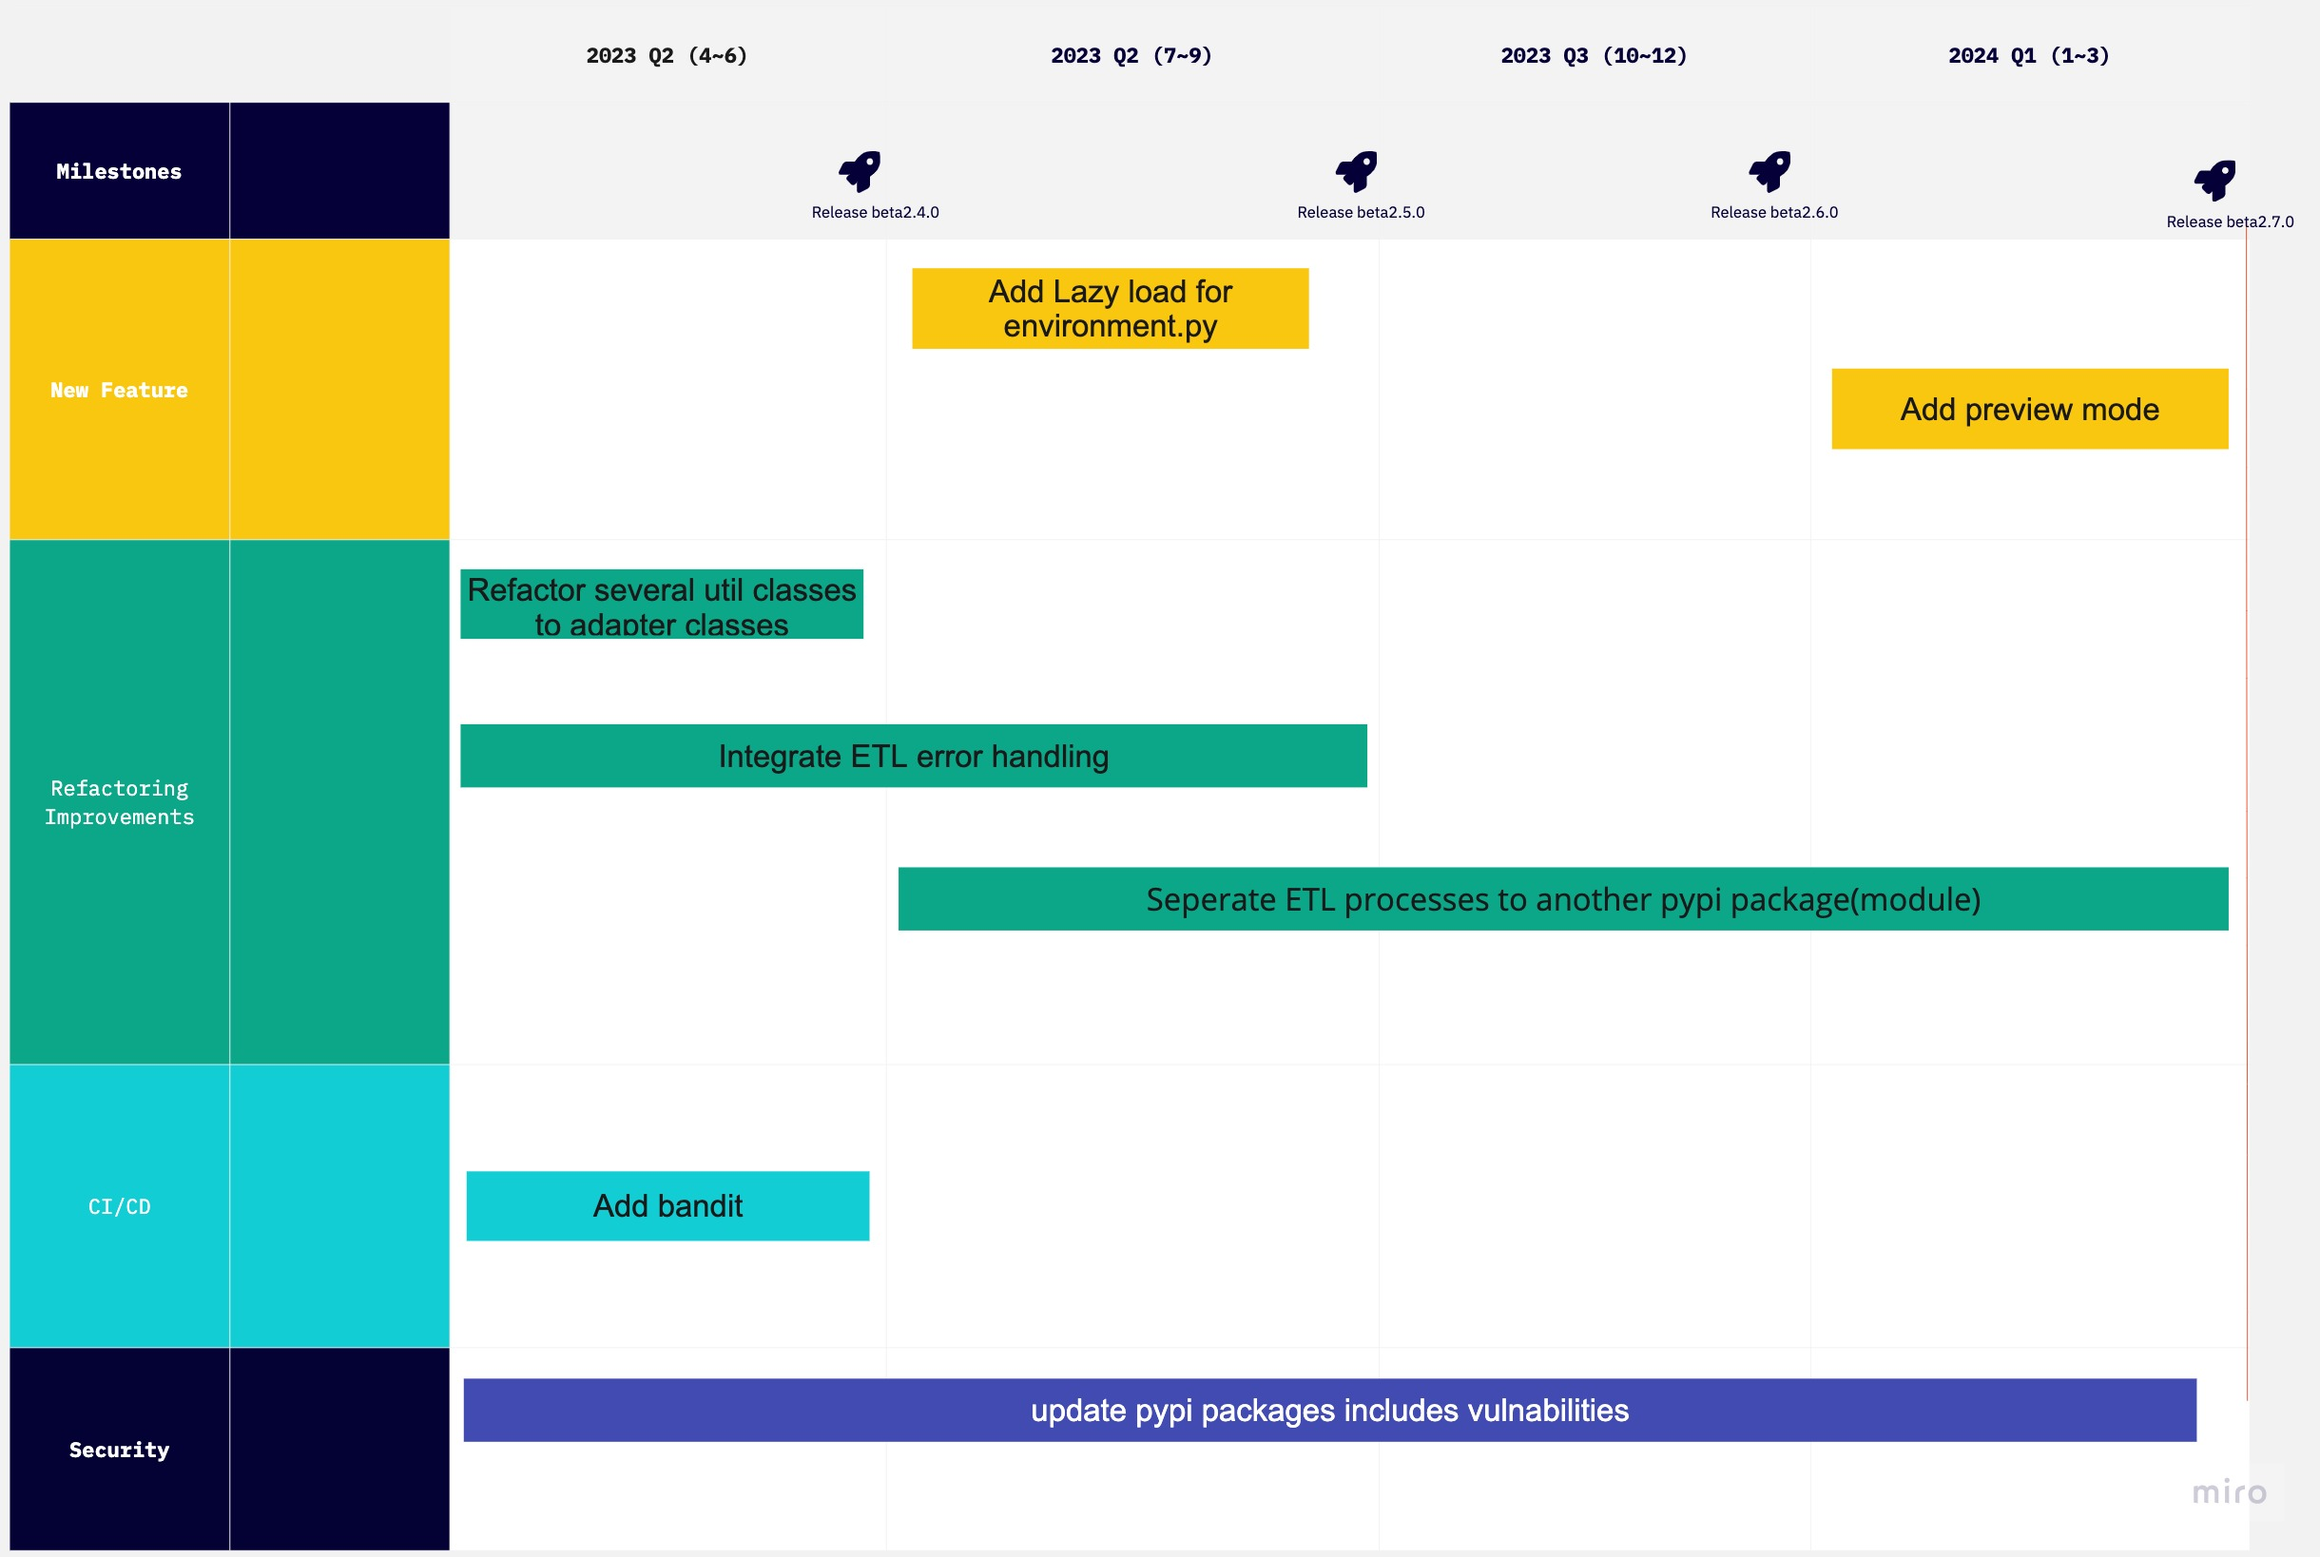
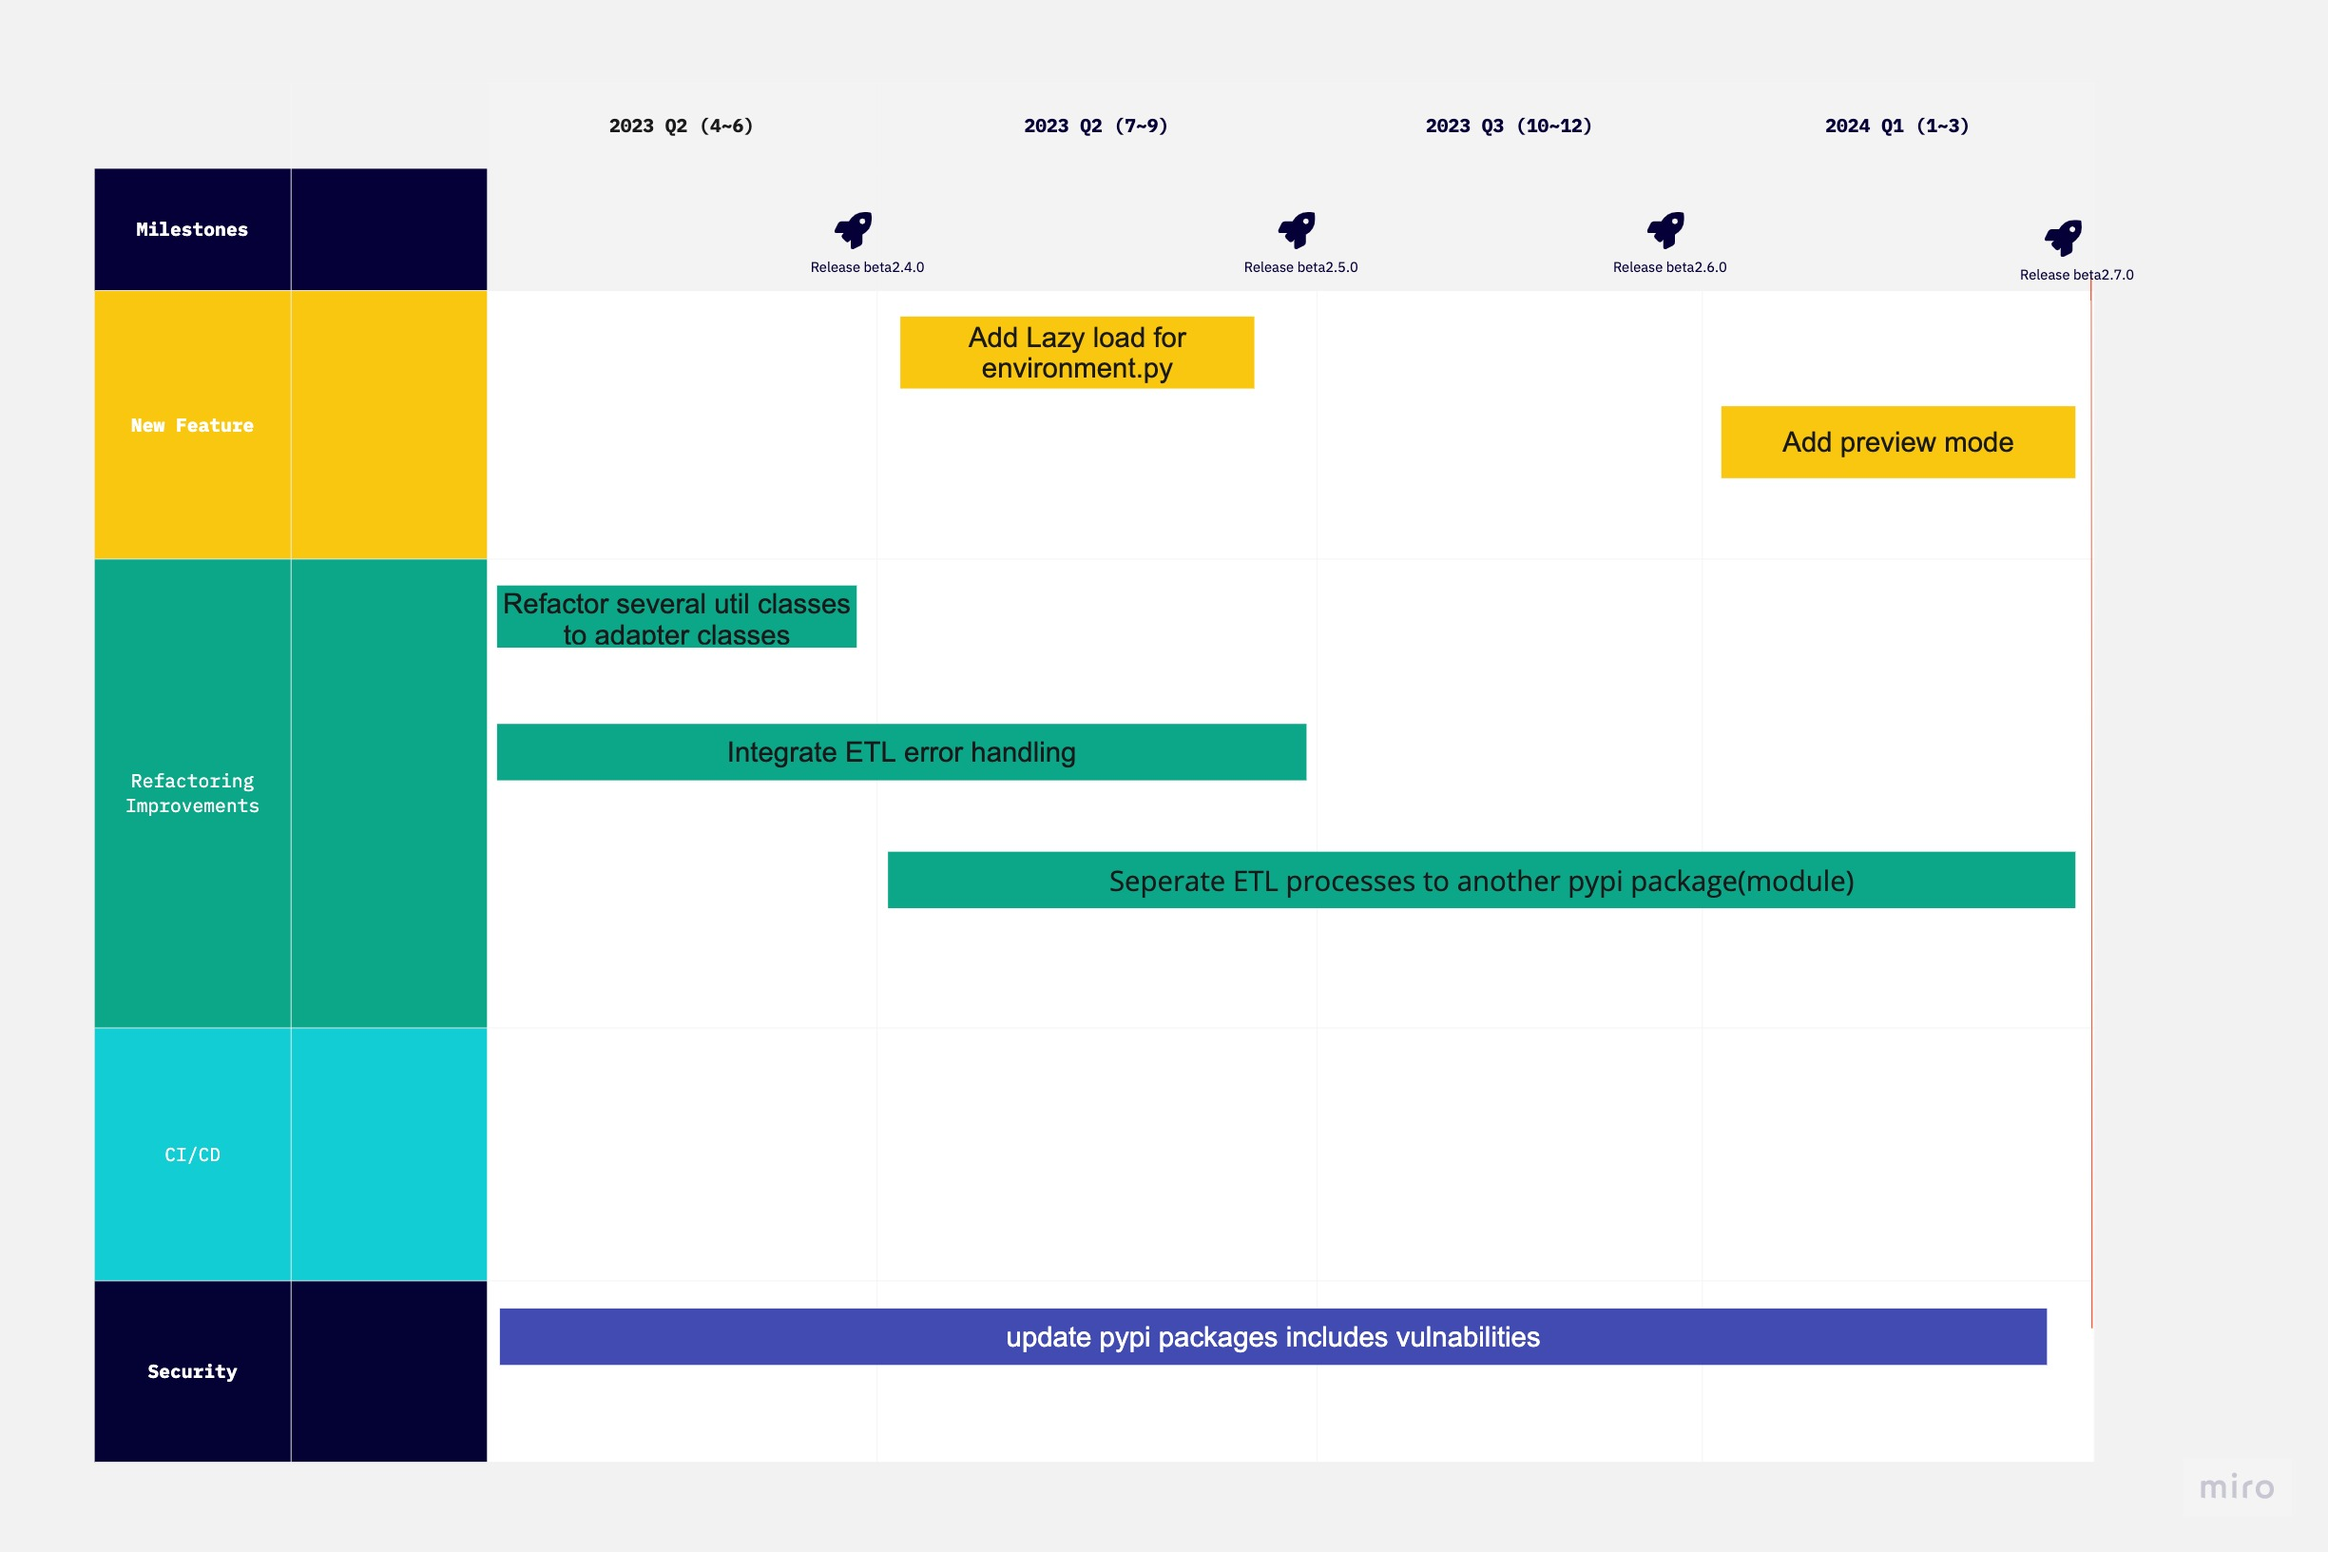
[〆5/12]move csv util to csv adapter (#414)
* move csv util to csv adapter

* fix import destination

* add a 202304 roadmap

* fix import

* isort

* fix import

---------

diff --git a/cliboa/scenario/transform/csv.py b/cliboa/scenario/transform/csv.py
@@ -21,11 +21,11 @@ from datetime import datetime
 import jsonlines
 import pandas
 
+from cliboa.adapter.csv import Csv
 from cliboa.adapter.file import File
 from cliboa.adapter.sqlite import SqliteAdapter
 from cliboa.core.validator import EssentialParameters
 from cliboa.scenario.transform.file import FileBaseTransform
-from cliboa.util.csv import Csv
 from cliboa.util.exception import FileNotFound, InvalidCount, InvalidParameter
 from cliboa.util.string import StringUtil
 

diff --git a/cliboa/scenario/load/sqlite.py b/cliboa/scenario/load/sqlite.py
@@ -11,9 +11,9 @@
 # The above copyright notice and this permission notice shall be included in
 # all copies or substantial portions of the Software.
 #
+from cliboa.adapter.csv import Csv
 from cliboa.scenario.sqlite import SqliteTransaction
 from cliboa.scenario.validator import EssentialParameters
-from cliboa.util.csv import Csv
 from cliboa.util.exception import CliboaException, FileNotFound
 
 

diff --git a/cliboa/scenario/transform/json.py b/cliboa/scenario/transform/json.py
@@ -17,9 +17,9 @@ from abc import abstractmethod
 import jsonlines
 import pandas
 
+from cliboa.adapter.csv import Csv
 from cliboa.core.validator import EssentialParameters
 from cliboa.scenario.transform.file import FileBaseTransform
-from cliboa.util.csv import Csv
 from cliboa.util.exception import InvalidParameter
 
 

diff --git a/cliboa/test/adapter/test_csv.py b/cliboa/test/adapter/test_csv.py
@@ -15,8 +15,8 @@ import csv
 import os
 import shutil
 
+from cliboa.adapter.csv import Csv
 from cliboa.conf import env
-from cliboa.util.csv import Csv
 
 
 class TestCsv(object):
